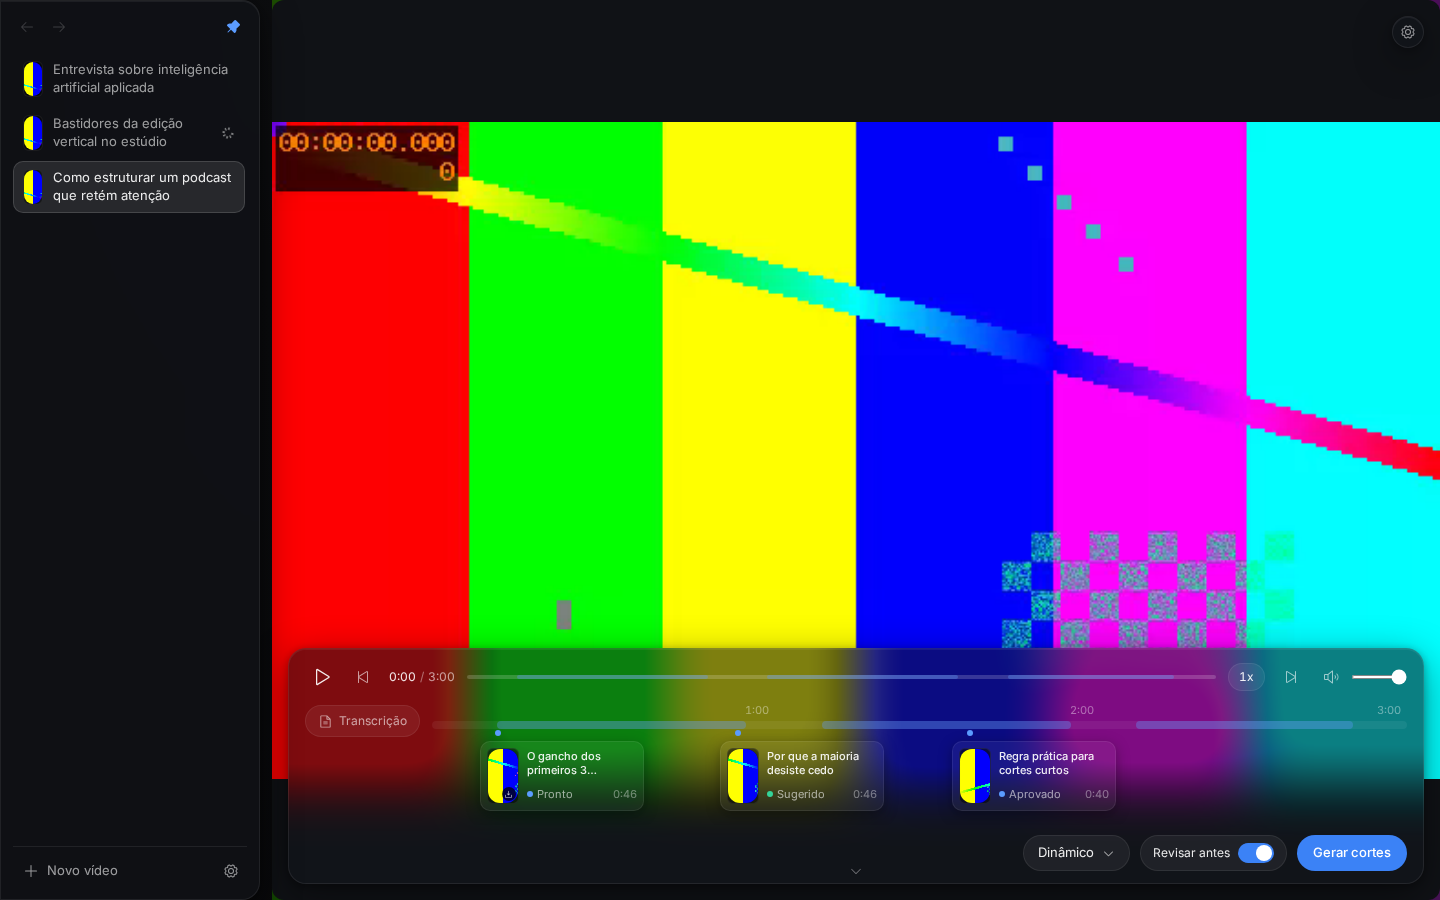
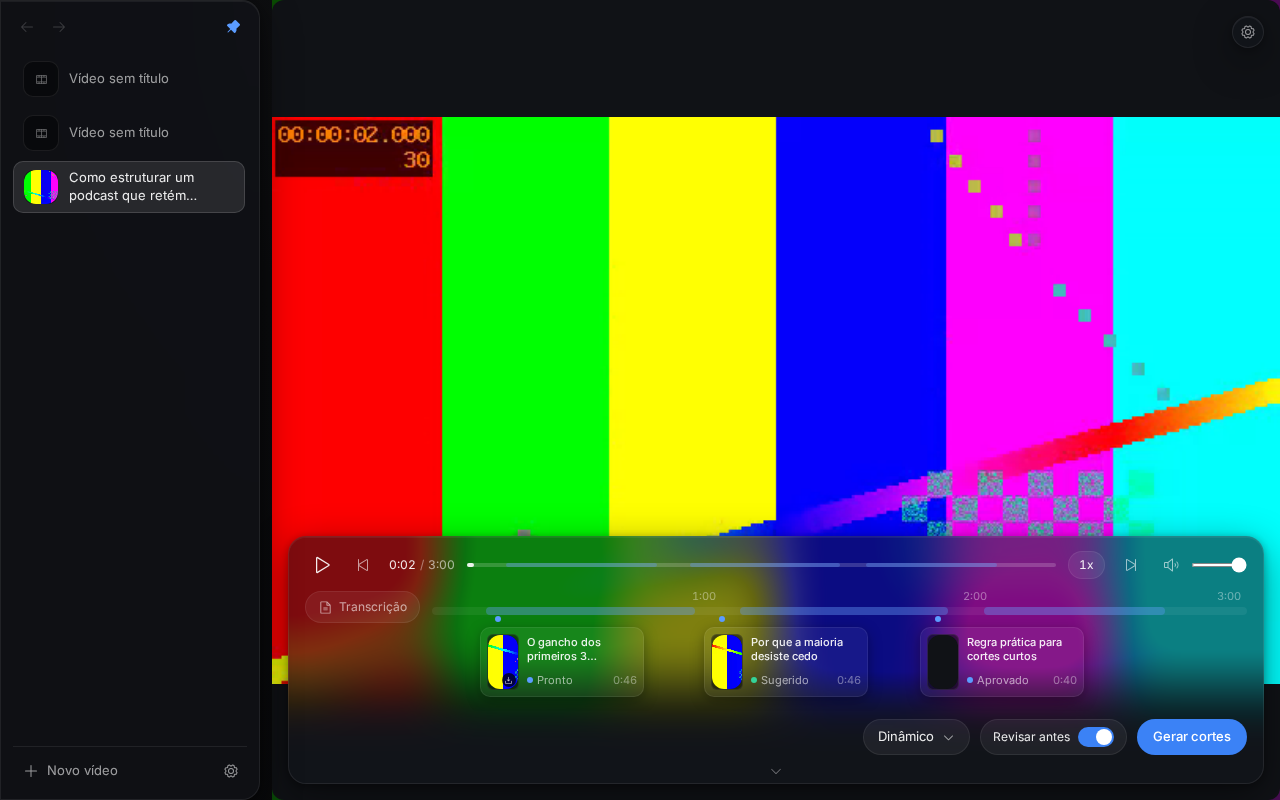
fix(frontend): address PR #1 review 3 (36x36 sidebar thumbs, accent-ring token, dock chevron spacing)

diff --git a/frontend/src/components/redesign/ArcSidebar.tsx b/frontend/src/components/redesign/ArcSidebar.tsx
@@ -296,7 +296,7 @@ export function ArcSidebar({
                         : "text-text-2 hover:bg-glass-hover hover:text-text-1",
                     ].join(" ")}
                   >
-                    <div className="h-9 aspect-[9/16] rounded-thumb overflow-hidden bg-black/40 border border-line shrink-0 grid place-items-center">
+                    <div className="w-9 h-9 rounded-lg overflow-hidden bg-black/40 border border-line shrink-0 grid place-items-center">
                       {thumbSrc ? (
                         <video
                           src={thumbSrc}

diff --git a/frontend/src/components/redesign/GlassDock.tsx b/frontend/src/components/redesign/GlassDock.tsx
@@ -236,7 +236,12 @@ export function GlassDock({
         />
       </button>
 
-      <div className="h-full px-4 py-3 flex flex-col justify-between gap-2.5">
+      <div
+        className={[
+          "h-full px-4 flex flex-col justify-between gap-2",
+          collapsed ? "py-3" : "pt-3 pb-7",
+        ].join(" ")}
+      >
         {/* Linha de reprodução (sempre visível) */}
         <div className="flex items-center gap-3 h-8 shrink-0">
           <button

diff --git a/frontend/tailwind.config.ts b/frontend/tailwind.config.ts
@@ -40,6 +40,7 @@ const config: Config = {
           soft: "var(--accent-soft)",
           seg: "var(--accent-seg)",
           fg: "var(--accent-fg)",
+          ring: "var(--accent-ring)",
         },
         success: "var(--success)",
         "success-bg": "var(--success-bg)",

diff --git a/frontend/src/lib/tokens.css b/frontend/src/lib/tokens.css
@@ -72,7 +72,7 @@
   --sidebar-w: 260px;
   --sidebar-gap: 12px;
   --edge-hot: 8px;
-  --dock-h: 236px;
+  --dock-h: 248px;
   --dock-h-collapsed: 56px;
   --dock-gap: 16px;
   --card-w: 164px;
